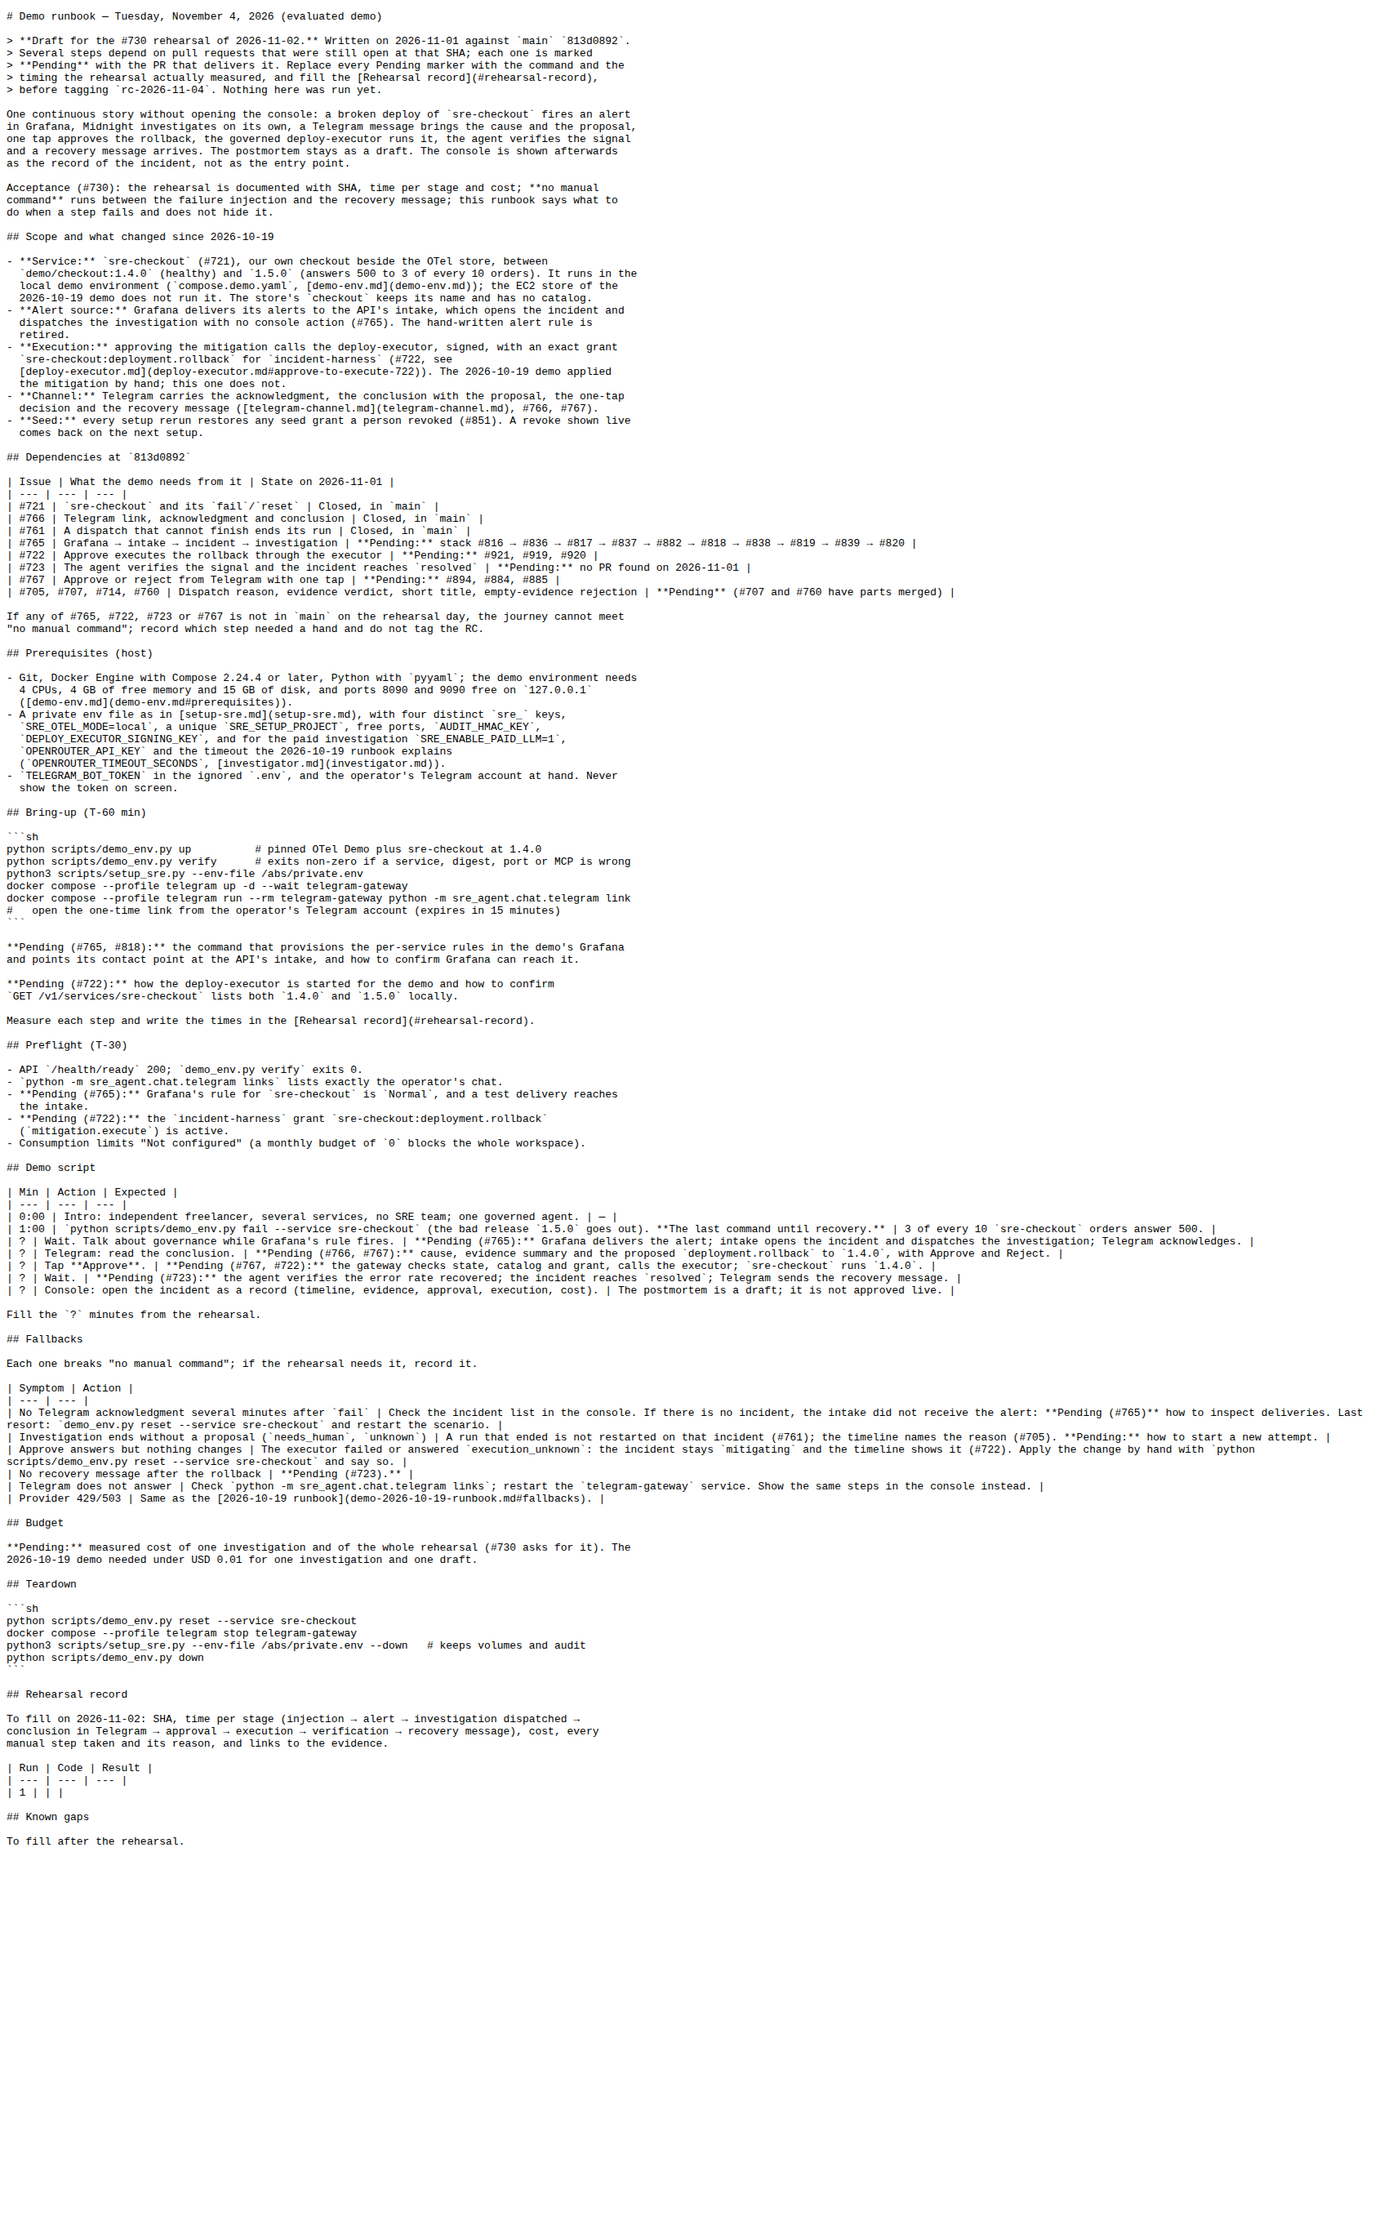
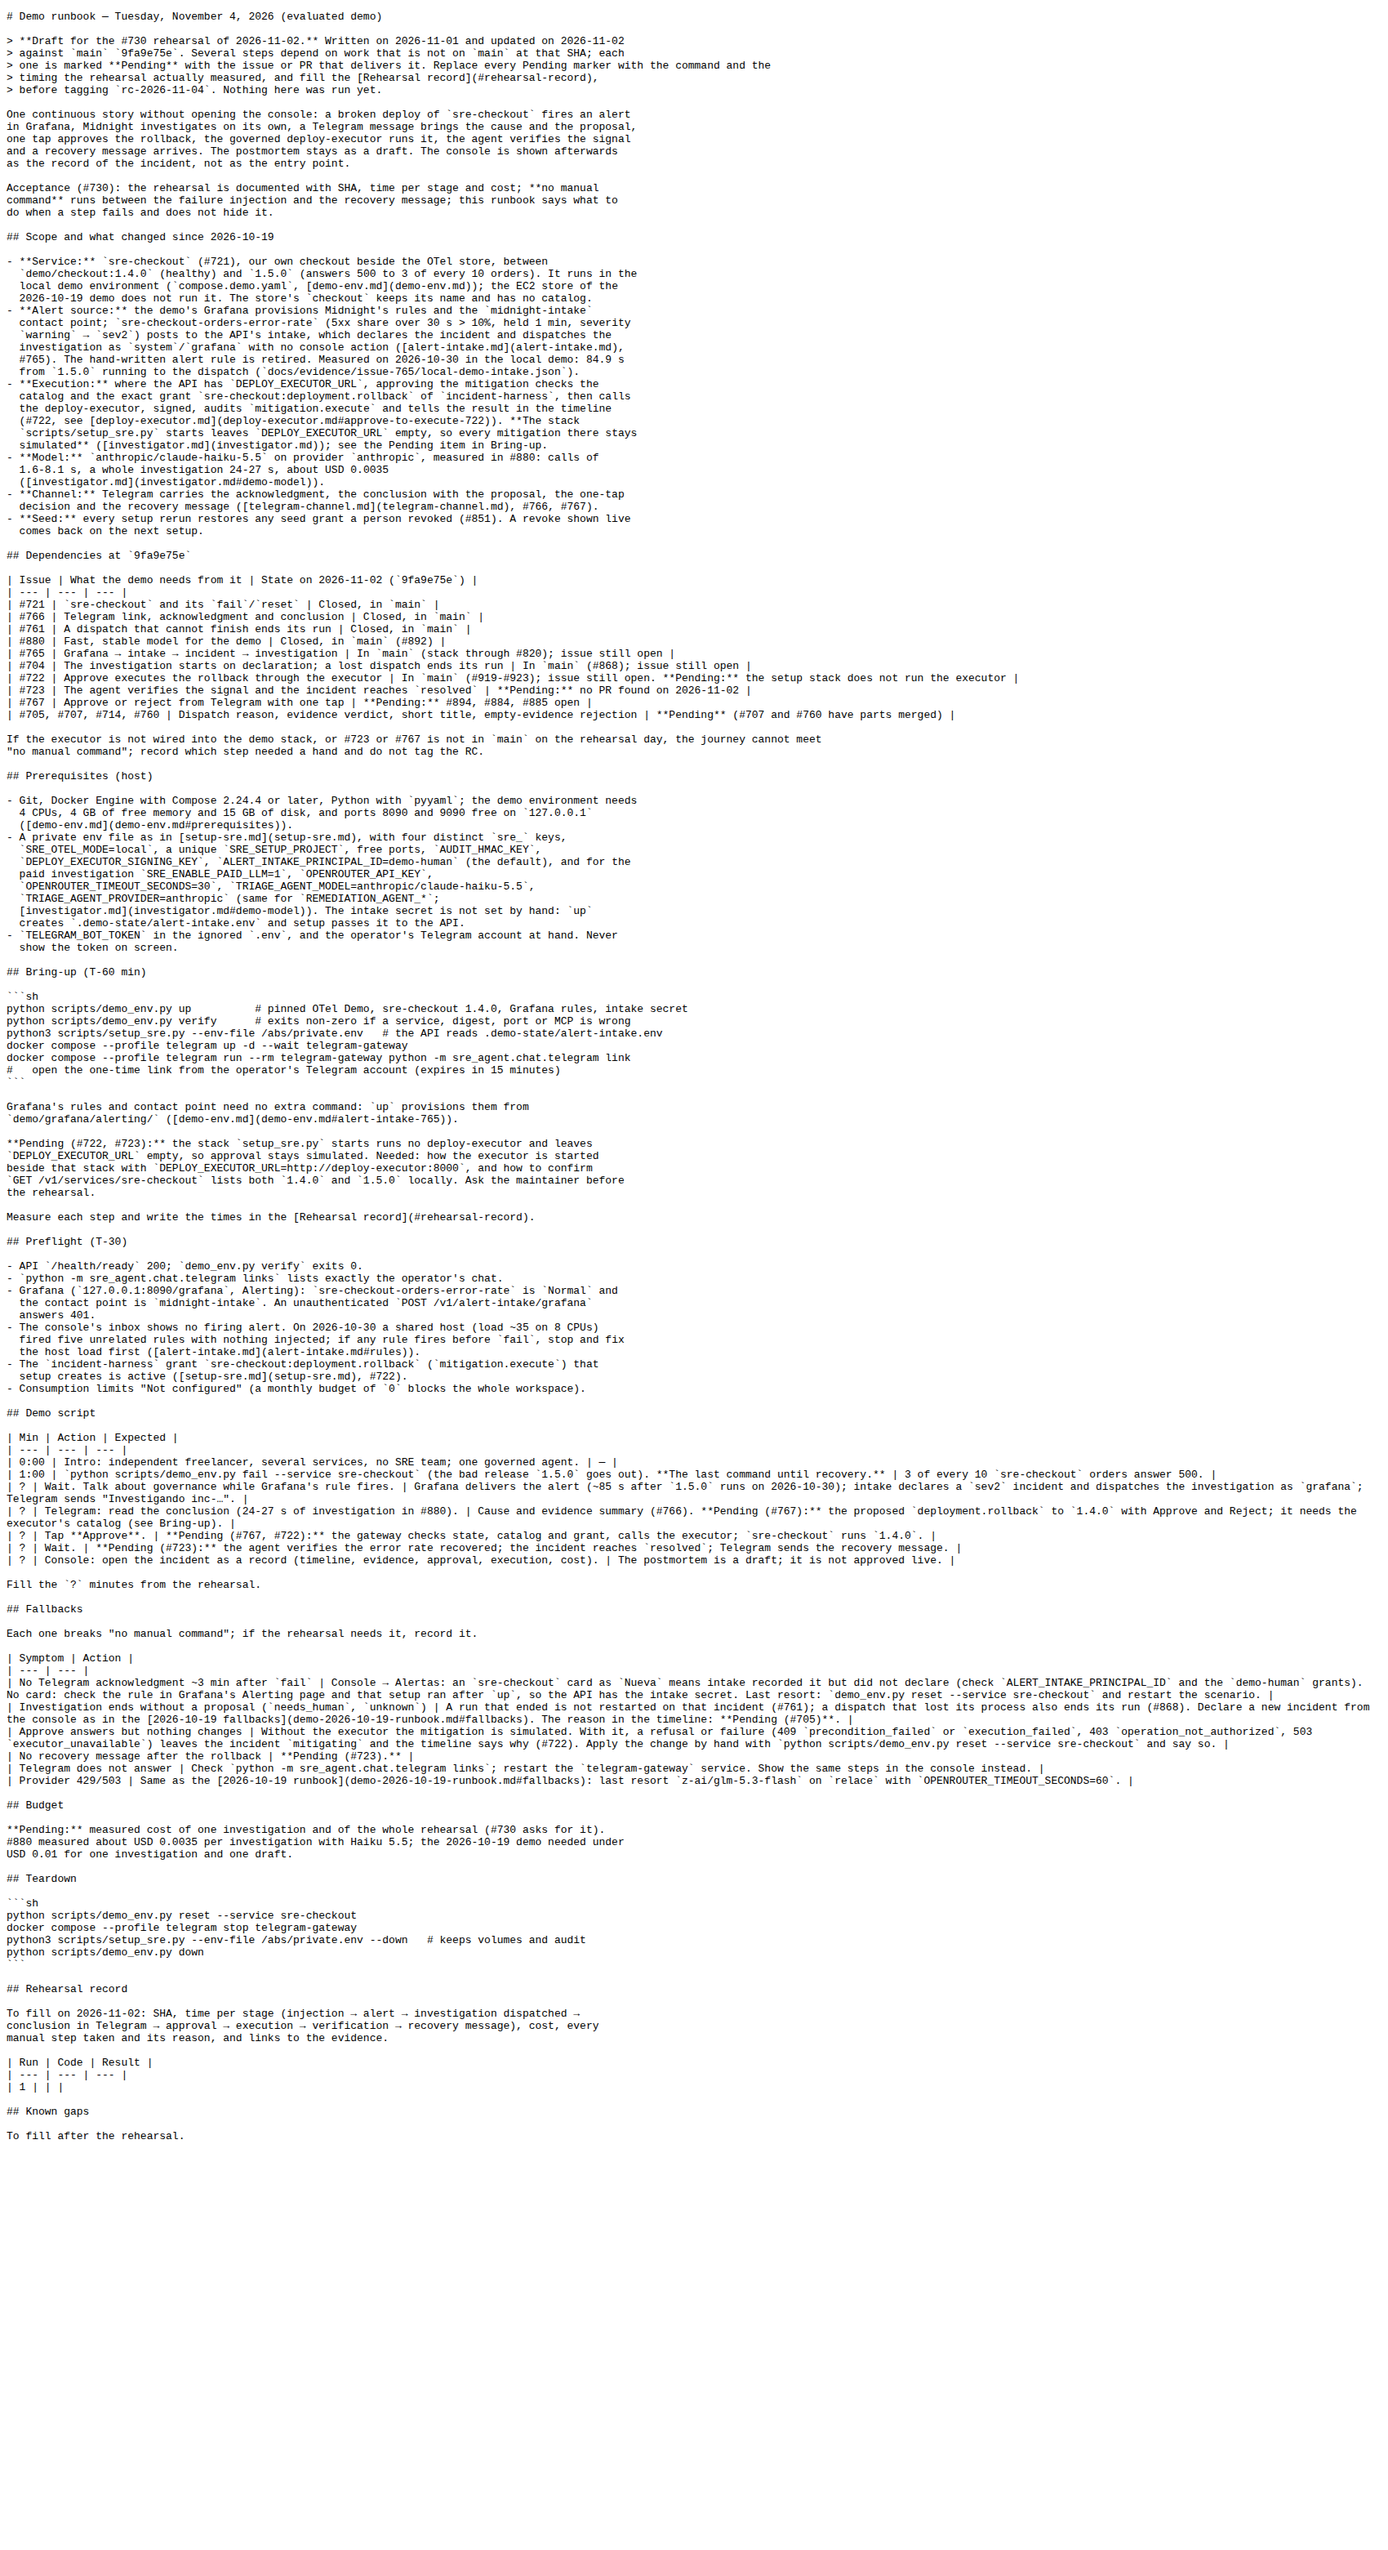
docs(demo): update the 2026-11-04 runbook to main 9fa9e75e (#730)
Intake (#765), the executor slices (#722), the demo model (#880) and the dispatch recovery (#868) are on main. Their Pending markers become the real steps; the setup stack running no deploy-executor stays Pending.

Changed region(s): [[0.0, 0.0, 0.9665, 0.8419]]

diff --git a/docs/demo-2026-11-04-runbook.md b/docs/demo-2026-11-04-runbook.md
@@ -1,8 +1,8 @@
 # Demo runbook — Tuesday, November 4, 2026 (evaluated demo)
 
-> **Draft for the #730 rehearsal of 2026-11-02.** Written on 2026-11-01 against `main` `813d0892`.
-> Several steps depend on pull requests that were still open at that SHA; each one is marked
-> **Pending** with the PR that delivers it. Replace every Pending marker with the command and the
+> **Draft for the #730 rehearsal of 2026-11-02.** Written on 2026-11-01 and updated on 2026-11-02
+> against `main` `9fa9e75e`. Several steps depend on work that is not on `main` at that SHA; each
+> one is marked **Pending** with the issue or PR that delivers it. Replace every Pending marker with the command and the
 > timing the rehearsal actually measured, and fill the [Rehearsal record](#rehearsal-record),
 > before tagging `rc-2026-11-04`. Nothing here was run yet.
 
@@ -22,32 +22,42 @@ do when a step fails and does not hide it.
   `demo/checkout:1.4.0` (healthy) and `1.5.0` (answers 500 to 3 of every 10 orders). It runs in the
   local demo environment (`compose.demo.yaml`, [demo-env.md](demo-env.md)); the EC2 store of the
   2026-10-19 demo does not run it. The store's `checkout` keeps its name and has no catalog.
-- **Alert source:** Grafana delivers its alerts to the API's intake, which opens the incident and
-  dispatches the investigation with no console action (#765). The hand-written alert rule is
-  retired.
-- **Execution:** approving the mitigation calls the deploy-executor, signed, with an exact grant
-  `sre-checkout:deployment.rollback` for `incident-harness` (#722, see
-  [deploy-executor.md](deploy-executor.md#approve-to-execute-722)). The 2026-10-19 demo applied
-  the mitigation by hand; this one does not.
+- **Alert source:** the demo's Grafana provisions Midnight's rules and the `midnight-intake`
+  contact point; `sre-checkout-orders-error-rate` (5xx share over 30 s > 10%, held 1 min, severity
+  `warning` → `sev2`) posts to the API's intake, which declares the incident and dispatches the
+  investigation as `system`/`grafana` with no console action ([alert-intake.md](alert-intake.md),
+  #765). The hand-written alert rule is retired. Measured on 2026-10-30 in the local demo: 84.9 s
+  from `1.5.0` running to the dispatch (`docs/evidence/issue-765/local-demo-intake.json`).
+- **Execution:** where the API has `DEPLOY_EXECUTOR_URL`, approving the mitigation checks the
+  catalog and the exact grant `sre-checkout:deployment.rollback` of `incident-harness`, then calls
+  the deploy-executor, signed, audits `mitigation.execute` and tells the result in the timeline
+  (#722, see [deploy-executor.md](deploy-executor.md#approve-to-execute-722)). **The stack
+  `scripts/setup_sre.py` starts leaves `DEPLOY_EXECUTOR_URL` empty, so every mitigation there stays
+  simulated** ([investigator.md](investigator.md)); see the Pending item in Bring-up.
+- **Model:** `anthropic/claude-haiku-5.5` on provider `anthropic`, measured in #880: calls of
+  1.6-8.1 s, a whole investigation 24-27 s, about USD 0.0035
+  ([investigator.md](investigator.md#demo-model)).
 - **Channel:** Telegram carries the acknowledgment, the conclusion with the proposal, the one-tap
   decision and the recovery message ([telegram-channel.md](telegram-channel.md), #766, #767).
 - **Seed:** every setup rerun restores any seed grant a person revoked (#851). A revoke shown live
   comes back on the next setup.
 
-## Dependencies at `813d0892`
+## Dependencies at `9fa9e75e`
 
-| Issue | What the demo needs from it | State on 2026-11-01 |
+| Issue | What the demo needs from it | State on 2026-11-02 (`9fa9e75e`) |
 | --- | --- | --- |
 | #721 | `sre-checkout` and its `fail`/`reset` | Closed, in `main` |
 | #766 | Telegram link, acknowledgment and conclusion | Closed, in `main` |
 | #761 | A dispatch that cannot finish ends its run | Closed, in `main` |
-| #765 | Grafana → intake → incident → investigation | **Pending:** stack #816 → #836 → #817 → #837 → #882 → #818 → #838 → #819 → #839 → #820 |
-| #722 | Approve executes the rollback through the executor | **Pending:** #921, #919, #920 |
-| #723 | The agent verifies the signal and the incident reaches `resolved` | **Pending:** no PR found on 2026-11-01 |
-| #767 | Approve or reject from Telegram with one tap | **Pending:** #894, #884, #885 |
+| #880 | Fast, stable model for the demo | Closed, in `main` (#892) |
+| #765 | Grafana → intake → incident → investigation | In `main` (stack through #820); issue still open |
+| #704 | The investigation starts on declaration; a lost dispatch ends its run | In `main` (#868); issue still open |
+| #722 | Approve executes the rollback through the executor | In `main` (#919-#923); issue still open. **Pending:** the setup stack does not run the executor |
+| #723 | The agent verifies the signal and the incident reaches `resolved` | **Pending:** no PR found on 2026-11-02 |
+| #767 | Approve or reject from Telegram with one tap | **Pending:** #894, #884, #885 open |
 | #705, #707, #714, #760 | Dispatch reason, evidence verdict, short title, empty-evidence rejection | **Pending** (#707 and #760 have parts merged) |
 
-If any of #765, #722, #723 or #767 is not in `main` on the rehearsal day, the journey cannot meet
+If the executor is not wired into the demo stack, or #723 or #767 is not in `main` on the rehearsal day, the journey cannot meet
 "no manual command"; record which step needed a hand and do not tag the RC.
 
 ## Prerequisites (host)
@@ -57,28 +67,34 @@ If any of #765, #722, #723 or #767 is not in `main` on the rehearsal day, the jo
   ([demo-env.md](demo-env.md#prerequisites)).
 - A private env file as in [setup-sre.md](setup-sre.md), with four distinct `sre_` keys,
   `SRE_OTEL_MODE=local`, a unique `SRE_SETUP_PROJECT`, free ports, `AUDIT_HMAC_KEY`,
-  `DEPLOY_EXECUTOR_SIGNING_KEY`, and for the paid investigation `SRE_ENABLE_PAID_LLM=1`,
-  `OPENROUTER_API_KEY` and the timeout the 2026-10-19 runbook explains
-  (`OPENROUTER_TIMEOUT_SECONDS`, [investigator.md](investigator.md)).
+  `DEPLOY_EXECUTOR_SIGNING_KEY`, `ALERT_INTAKE_PRINCIPAL_ID=demo-human` (the default), and for the
+  paid investigation `SRE_ENABLE_PAID_LLM=1`, `OPENROUTER_API_KEY`,
+  `OPENROUTER_TIMEOUT_SECONDS=30`, `TRIAGE_AGENT_MODEL=anthropic/claude-haiku-5.5`,
+  `TRIAGE_AGENT_PROVIDER=anthropic` (same for `REMEDIATION_AGENT_*`;
+  [investigator.md](investigator.md#demo-model)). The intake secret is not set by hand: `up`
+  creates `.demo-state/alert-intake.env` and setup passes it to the API.
 - `TELEGRAM_BOT_TOKEN` in the ignored `.env`, and the operator's Telegram account at hand. Never
   show the token on screen.
 
 ## Bring-up (T-60 min)
 
 ```sh
-python scripts/demo_env.py up          # pinned OTel Demo plus sre-checkout at 1.4.0
+python scripts/demo_env.py up          # pinned OTel Demo, sre-checkout 1.4.0, Grafana rules, intake secret
 python scripts/demo_env.py verify      # exits non-zero if a service, digest, port or MCP is wrong
-python3 scripts/setup_sre.py --env-file /abs/private.env
+python3 scripts/setup_sre.py --env-file /abs/private.env   # the API reads .demo-state/alert-intake.env
 docker compose --profile telegram up -d --wait telegram-gateway
 docker compose --profile telegram run --rm telegram-gateway python -m sre_agent.chat.telegram link
 #   open the one-time link from the operator's Telegram account (expires in 15 minutes)
 ```
 
-**Pending (#765, #818):** the command that provisions the per-service rules in the demo's Grafana
-and points its contact point at the API's intake, and how to confirm Grafana can reach it.
+Grafana's rules and contact point need no extra command: `up` provisions them from
+`demo/grafana/alerting/` ([demo-env.md](demo-env.md#alert-intake-765)).
 
-**Pending (#722):** how the deploy-executor is started for the demo and how to confirm
-`GET /v1/services/sre-checkout` lists both `1.4.0` and `1.5.0` locally.
+**Pending (#722, #723):** the stack `setup_sre.py` starts runs no deploy-executor and leaves
+`DEPLOY_EXECUTOR_URL` empty, so approval stays simulated. Needed: how the executor is started
+beside that stack with `DEPLOY_EXECUTOR_URL=http://deploy-executor:8000`, and how to confirm
+`GET /v1/services/sre-checkout` lists both `1.4.0` and `1.5.0` locally. Ask the maintainer before
+the rehearsal.
 
 Measure each step and write the times in the [Rehearsal record](#rehearsal-record).
 
@@ -86,10 +102,14 @@ Measure each step and write the times in the [Rehearsal record](#rehearsal-recor
 
 - API `/health/ready` 200; `demo_env.py verify` exits 0.
 - `python -m sre_agent.chat.telegram links` lists exactly the operator's chat.
-- **Pending (#765):** Grafana's rule for `sre-checkout` is `Normal`, and a test delivery reaches
-  the intake.
-- **Pending (#722):** the `incident-harness` grant `sre-checkout:deployment.rollback`
-  (`mitigation.execute`) is active.
+- Grafana (`127.0.0.1:8090/grafana`, Alerting): `sre-checkout-orders-error-rate` is `Normal` and
+  the contact point is `midnight-intake`. An unauthenticated `POST /v1/alert-intake/grafana`
+  answers 401.
+- The console's inbox shows no firing alert. On 2026-10-30 a shared host (load ~35 on 8 CPUs)
+  fired five unrelated rules with nothing injected; if any rule fires before `fail`, stop and fix
+  the host load first ([alert-intake.md](alert-intake.md#rules)).
+- The `incident-harness` grant `sre-checkout:deployment.rollback` (`mitigation.execute`) that
+  setup creates is active ([setup-sre.md](setup-sre.md), #722).
 - Consumption limits "Not configured" (a monthly budget of `0` blocks the whole workspace).
 
 ## Demo script
@@ -98,8 +118,8 @@ Measure each step and write the times in the [Rehearsal record](#rehearsal-recor
 | --- | --- | --- |
 | 0:00 | Intro: independent freelancer, several services, no SRE team; one governed agent. | — |
 | 1:00 | `python scripts/demo_env.py fail --service sre-checkout` (the bad release `1.5.0` goes out). **The last command until recovery.** | 3 of every 10 `sre-checkout` orders answer 500. |
-| ? | Wait. Talk about governance while Grafana's rule fires. | **Pending (#765):** Grafana delivers the alert; intake opens the incident and dispatches the investigation; Telegram acknowledges. |
-| ? | Telegram: read the conclusion. | **Pending (#766, #767):** cause, evidence summary and the proposed `deployment.rollback` to `1.4.0`, with Approve and Reject. |
+| ? | Wait. Talk about governance while Grafana's rule fires. | Grafana delivers the alert (~85 s after `1.5.0` runs on 2026-10-30); intake declares a `sev2` incident and dispatches the investigation as `grafana`; Telegram sends "Investigando inc-…". |
+| ? | Telegram: read the conclusion (24-27 s of investigation in #880). | Cause and evidence summary (#766). **Pending (#767):** the proposed `deployment.rollback` to `1.4.0` with Approve and Reject; it needs the executor's catalog (see Bring-up). |
 | ? | Tap **Approve**. | **Pending (#767, #722):** the gateway checks state, catalog and grant, calls the executor; `sre-checkout` runs `1.4.0`. |
 | ? | Wait. | **Pending (#723):** the agent verifies the error rate recovered; the incident reaches `resolved`; Telegram sends the recovery message. |
 | ? | Console: open the incident as a record (timeline, evidence, approval, execution, cost). | The postmortem is a draft; it is not approved live. |
@@ -112,17 +132,18 @@ Each one breaks "no manual command"; if the rehearsal needs it, record it.
 
 | Symptom | Action |
 | --- | --- |
-| No Telegram acknowledgment several minutes after `fail` | Check the incident list in the console. If there is no incident, the intake did not receive the alert: **Pending (#765)** how to inspect deliveries. Last resort: `demo_env.py reset --service sre-checkout` and restart the scenario. |
-| Investigation ends without a proposal (`needs_human`, `unknown`) | A run that ended is not restarted on that incident (#761); the timeline names the reason (#705). **Pending:** how to start a new attempt. |
-| Approve answers but nothing changes | The executor failed or answered `execution_unknown`: the incident stays `mitigating` and the timeline shows it (#722). Apply the change by hand with `python scripts/demo_env.py reset --service sre-checkout` and say so. |
+| No Telegram acknowledgment ~3 min after `fail` | Console → Alertas: an `sre-checkout` card as `Nueva` means intake recorded it but did not declare (check `ALERT_INTAKE_PRINCIPAL_ID` and the `demo-human` grants). No card: check the rule in Grafana's Alerting page and that setup ran after `up`, so the API has the intake secret. Last resort: `demo_env.py reset --service sre-checkout` and restart the scenario. |
+| Investigation ends without a proposal (`needs_human`, `unknown`) | A run that ended is not restarted on that incident (#761); a dispatch that lost its process also ends its run (#868). Declare a new incident from the console as in the [2026-10-19 fallbacks](demo-2026-10-19-runbook.md#fallbacks). The reason in the timeline: **Pending (#705)**. |
+| Approve answers but nothing changes | Without the executor the mitigation is simulated. With it, a refusal or failure (409 `precondition_failed` or `execution_failed`, 403 `operation_not_authorized`, 503 `executor_unavailable`) leaves the incident `mitigating` and the timeline says why (#722). Apply the change by hand with `python scripts/demo_env.py reset --service sre-checkout` and say so. |
 | No recovery message after the rollback | **Pending (#723).** |
 | Telegram does not answer | Check `python -m sre_agent.chat.telegram links`; restart the `telegram-gateway` service. Show the same steps in the console instead. |
-| Provider 429/503 | Same as the [2026-10-19 runbook](demo-2026-10-19-runbook.md#fallbacks). |
+| Provider 429/503 | Same as the [2026-10-19 runbook](demo-2026-10-19-runbook.md#fallbacks): last resort `z-ai/glm-5.3-flash` on `relace` with `OPENROUTER_TIMEOUT_SECONDS=60`. |
 
 ## Budget
 
-**Pending:** measured cost of one investigation and of the whole rehearsal (#730 asks for it). The
-2026-10-19 demo needed under USD 0.01 for one investigation and one draft.
+**Pending:** measured cost of one investigation and of the whole rehearsal (#730 asks for it).
+#880 measured about USD 0.0035 per investigation with Haiku 5.5; the 2026-10-19 demo needed under
+USD 0.01 for one investigation and one draft.
 
 ## Teardown
 
